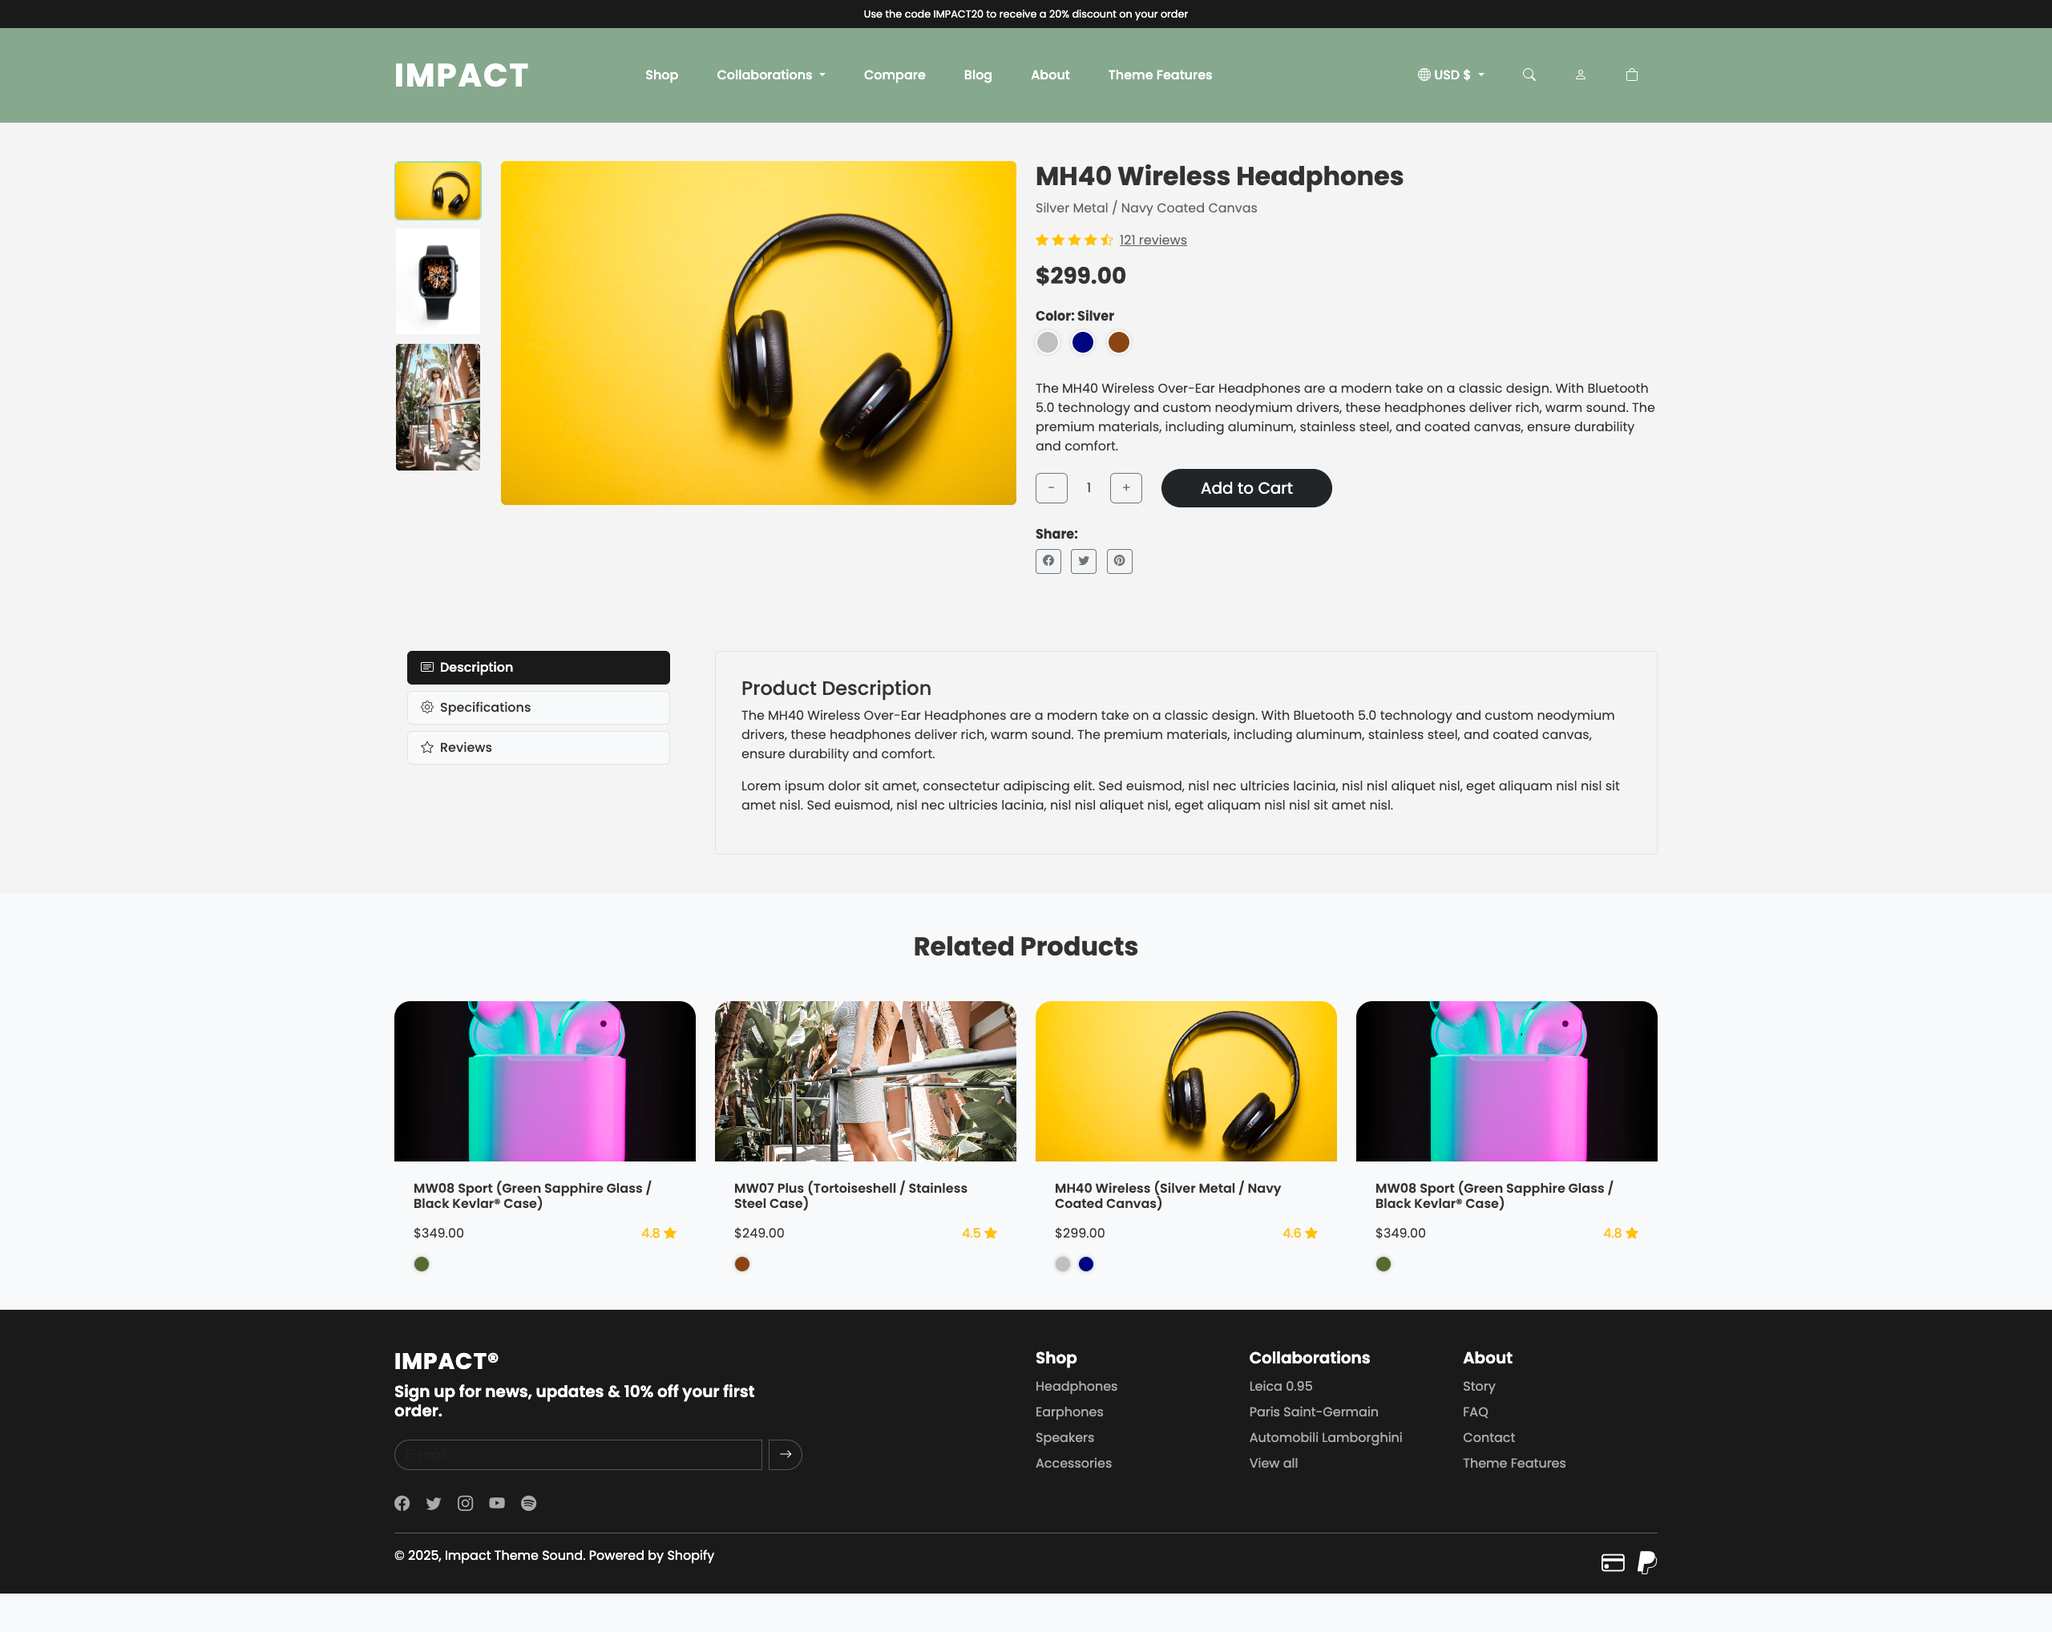
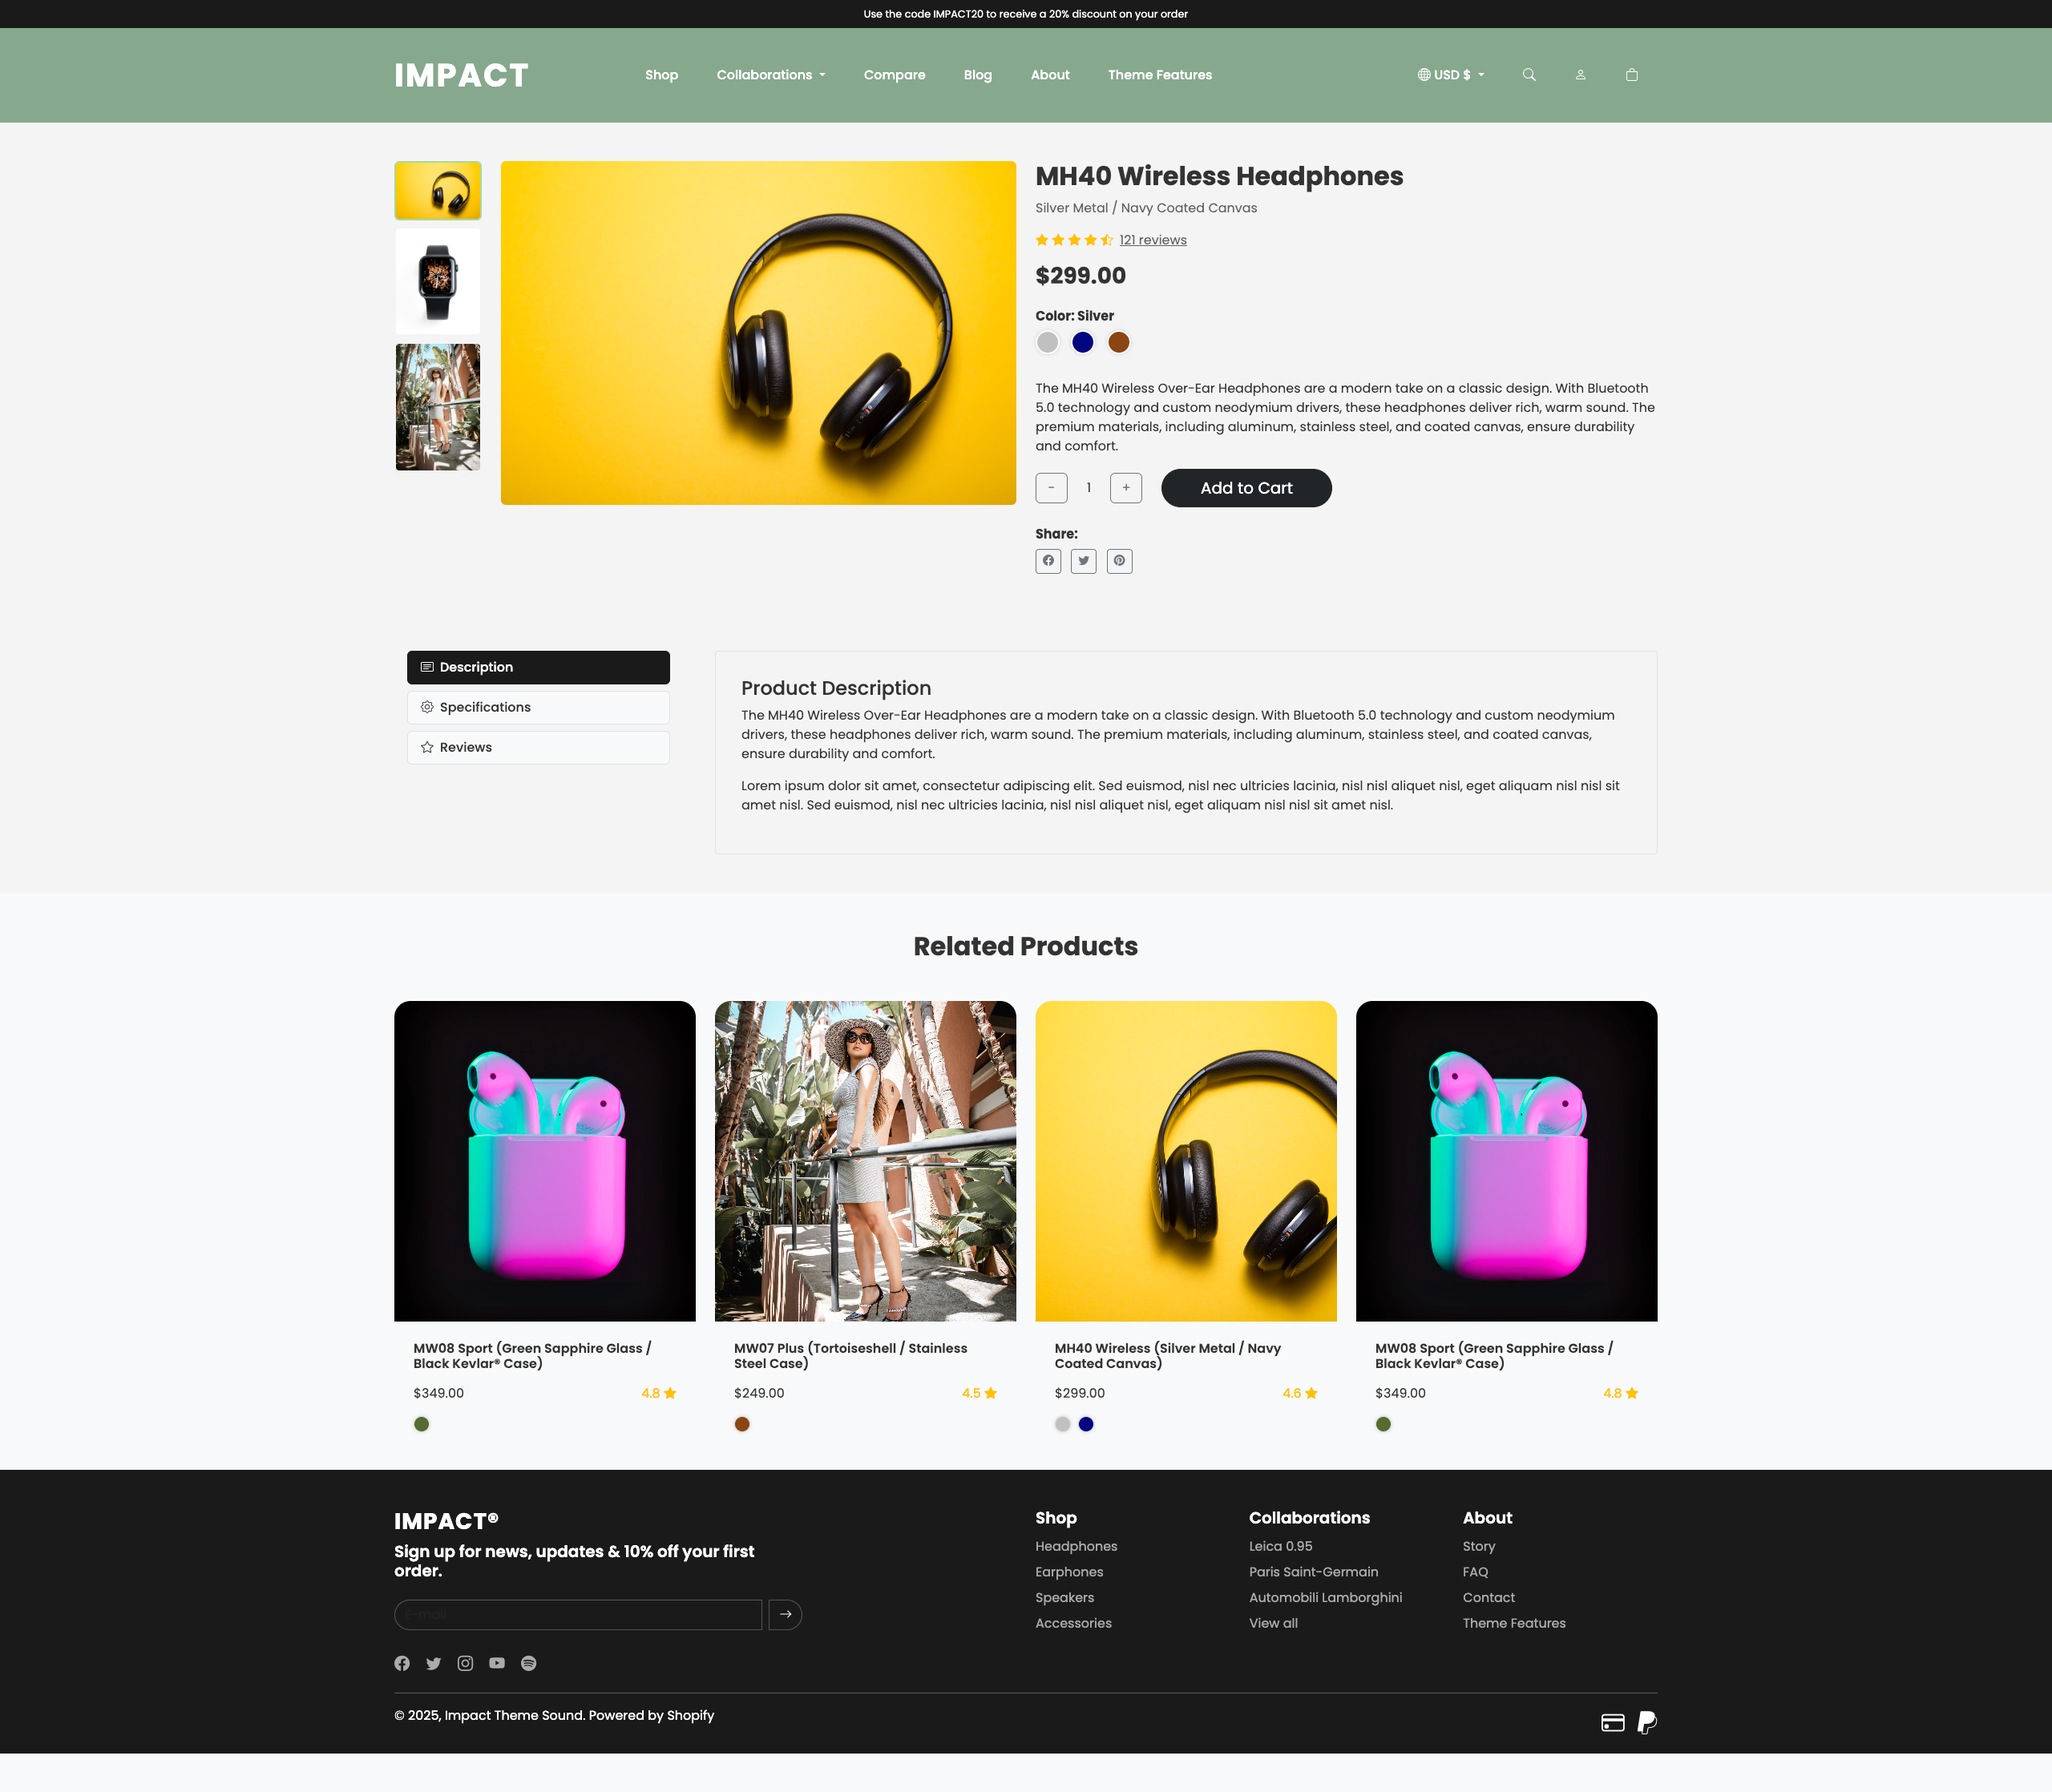
screen shots update, category randomized

diff --git a/category.html b/category.html
@@ -133,7 +133,7 @@
                 <div class="col-lg-4 col-md-6 mb-4">
                     <div class="card product-card">
                         <div class="product-image">
-                            <a href="product.html"><img src="https://images.unsplash.com/photo-1505740420928-5e560c06d30e?q=80&w=2070&auto=format&fit=crop" class="card-img-top product-img-fixed-height" alt="Product 1"></a>
+                            <a href="product.html"><img src="https://images.unsplash.com/photo-1519677100203-a0e668c92439?q=80&w=2070&auto=format&fit=crop" class="card-img-top product-img-fixed-height" alt="Product 1"></a>
                             <span class="badge bg-dark sold-out-badge">Sold out</span>
                         </div>
                         <div class="card-body">
@@ -152,26 +152,7 @@
                         </div>
                     </div>
                 </div>
-                <div class="col-lg-4 col-md-6 mb-4">
-                    <div class="card product-card">
-                        <div class="product-image">
-                            <img src="https://images.unsplash.com/photo-1610438235354-a6ae5528385c?q=80&w=2070&auto=format&fit=crop" class="card-img-top product-img-fixed-height" alt="Product 2">
-                        </div>
-                        <div class="card-body">
-                            <h5 class="card-title">MW08 Sport (Green Sapphire Glass / Black Kevlar® Case)</h5>
-                            <div class="d-flex justify-content-between align-items-center">
-                                <p class="card-text mb-0">$349.00</p>
-                                <div class="rating">
-                                    <span>4.8</span>
-                                    <i class="bi bi-star-fill"></i>
-                                </div>
-                            </div>
-                            <div class="colors mt-3">
-                                <span class="color-dot" style="background-color: #556b2f;"></span>
-                            </div>
-                        </div>
-                    </div>
-                </div>
+           
                 <div class="col-lg-4 col-md-6 mb-4">
                     <div class="card product-card">
                         <div class="product-image">
@@ -188,6 +169,26 @@
                             </div>
                             <div class="colors mt-3">
                                 <span class="color-dot" style="background-color: #8b4513;"></span>
+                            </div>
+                        </div>
+                    </div>
+                </div>
+                     <div class="col-lg-4 col-md-6 mb-4">
+                    <div class="card product-card">
+                        <div class="product-image">
+                            <img src="https://images.unsplash.com/photo-1610438235354-a6ae5528385c?q=80&w=2070&auto=format&fit=crop" class="card-img-top product-img-fixed-height" alt="Product 2">
+                        </div>
+                        <div class="card-body">
+                            <h5 class="card-title">MW08 Sport (Green Sapphire Glass / Black Kevlar® Case)</h5>
+                            <div class="d-flex justify-content-between align-items-center">
+                                <p class="card-text mb-0">$349.00</p>
+                                <div class="rating">
+                                    <span>4.8</span>
+                                    <i class="bi bi-star-fill"></i>
+                                </div>
+                            </div>
+                            <div class="colors mt-3">
+                                <span class="color-dot" style="background-color: #556b2f;"></span>
                             </div>
                         </div>
                     </div>
@@ -236,7 +237,71 @@
                 <div class="col-lg-4 col-md-6 mb-4">
                     <div class="card product-card">
                         <div class="product-image">
-                            <img src="https://images.unsplash.com/photo-1618374509394-3606c0aaf289?q=80&w=2070&auto=format&fit=crop" class="card-img-top product-img-fixed-height" alt="Product 8">
+                            <img src="https://images.unsplash.com/photo-1542291026-7eec264c27ff?q=80&w=2070&auto=format&fit=crop" class="card-img-top product-img-fixed-height" alt="Product 8">
+                        </div>
+                        <div class="card-body">
+                            <h5 class="card-title">MW07 Plus (Tortoiseshell / Stainless Steel Case)</h5>
+                            <div class="d-flex justify-content-between align-items-center">
+                                <p class="card-text mb-0">$249.00</p>
+                                <div class="rating">
+                                    <span>4.5</span>
+                                    <i class="bi bi-star-fill"></i>
+                                </div>
+                            </div>
+                            <div class="colors mt-3">
+                                <span class="color-dot" style="background-color: #8b4513;"></span>
+                            </div>
+                        </div>
+                    </div>
+                </div>
+
+             
+                <div class="col-lg-4 col-md-6 mb-4">
+                    <div class="card product-card">
+                        <div class="product-image">
+                            <img src="https://images.unsplash.com/photo-1519677100203-a0e668c92439?q=80&w=2070&auto=format&fit=crop" class="card-img-top product-img-fixed-height" alt="Product 2">
+                        </div>
+                        <div class="card-body">
+                            <h5 class="card-title">MW08 Sport (Green Sapphire Glass / Black Kevlar® Case)</h5>
+                            <div class="d-flex justify-content-between align-items-center">
+                                <p class="card-text mb-0">$349.00</p>
+                                <div class="rating">
+                                    <span>4.8</span>
+                                    <i class="bi bi-star-fill"></i>
+                                </div>
+                            </div>
+                            <div class="colors mt-3">
+                                <span class="color-dot" style="background-color: #556b2f;"></span>
+                            </div>
+                        </div>
+                    </div>
+                </div>
+                   <div class="col-lg-4 col-md-6 mb-4">
+                    <div class="card product-card">
+                        <div class="product-image">
+                            <a href="product.html"><img src="https://images.unsplash.com/photo-1505740420928-5e560c06d30e?q=80&w=2070&auto=format&fit=crop" class="card-img-top product-img-fixed-height" alt="Product 1"></a>
+                            <span class="badge bg-dark sold-out-badge">Sold out</span>
+                        </div>
+                        <div class="card-body">
+                            <h5 class="card-title">MH40 Wireless (Silver Metal / Navy Coated Canvas)</h5>
+                            <div class="d-flex justify-content-between align-items-center">
+                                <p class="card-text mb-0">$299.00</p>
+                                <div class="rating">
+                                    <span>4.6</span>
+                                    <i class="bi bi-star-fill"></i>
+                                </div>
+                            </div>
+                            <div class="colors mt-3">
+                                <span class="color-dot" style="background-color: #c0c0c0;"></span>
+                                <span class="color-dot" style="background-color: #000080;"></span>
+                            </div>
+                        </div>
+                    </div>
+                </div>
+                <div class="col-lg-4 col-md-6 mb-4">
+                    <div class="card product-card">
+                        <div class="product-image">
+                            <img src="https://images.unsplash.com/photo-1618374509394-3606c0aaf289?q=80&w=2070&auto=format&fit=crop" class="card-img-top product-img-fixed-height" alt="Product 4">
                         </div>
                         <div class="card-body">
                             <h5 class="card-title">MW07 Plus (Tortoiseshell / Stainless Steel Case)</h5>
